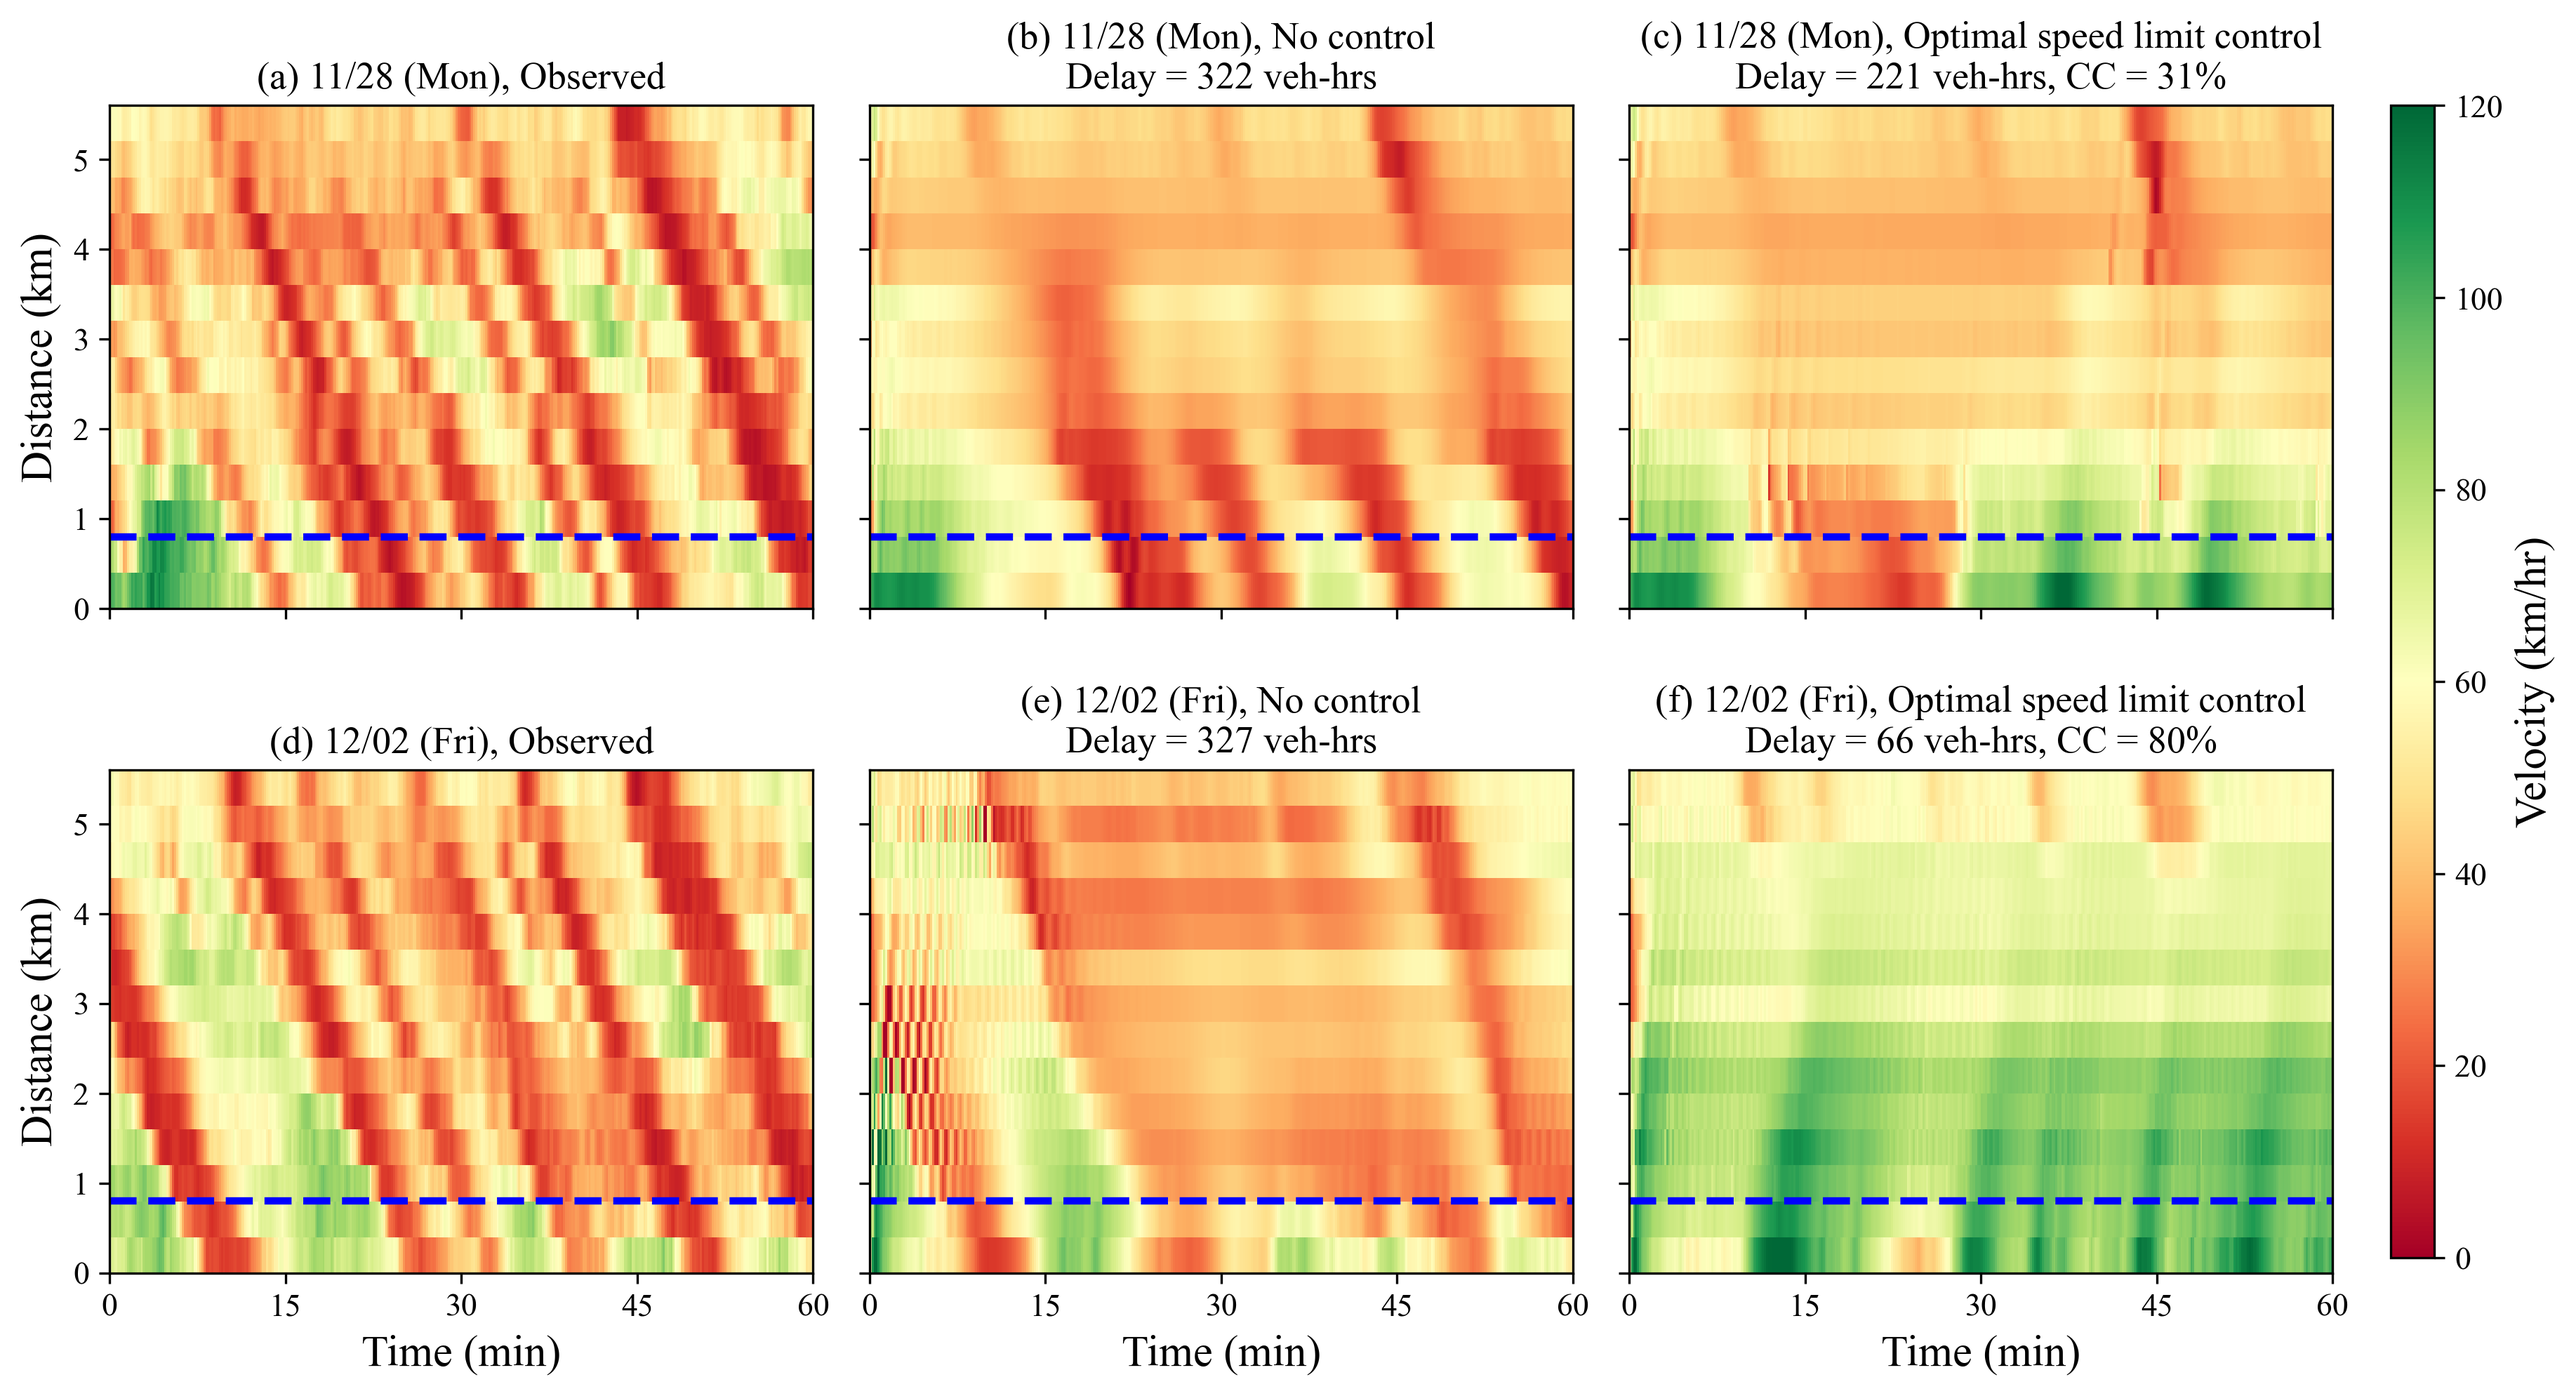
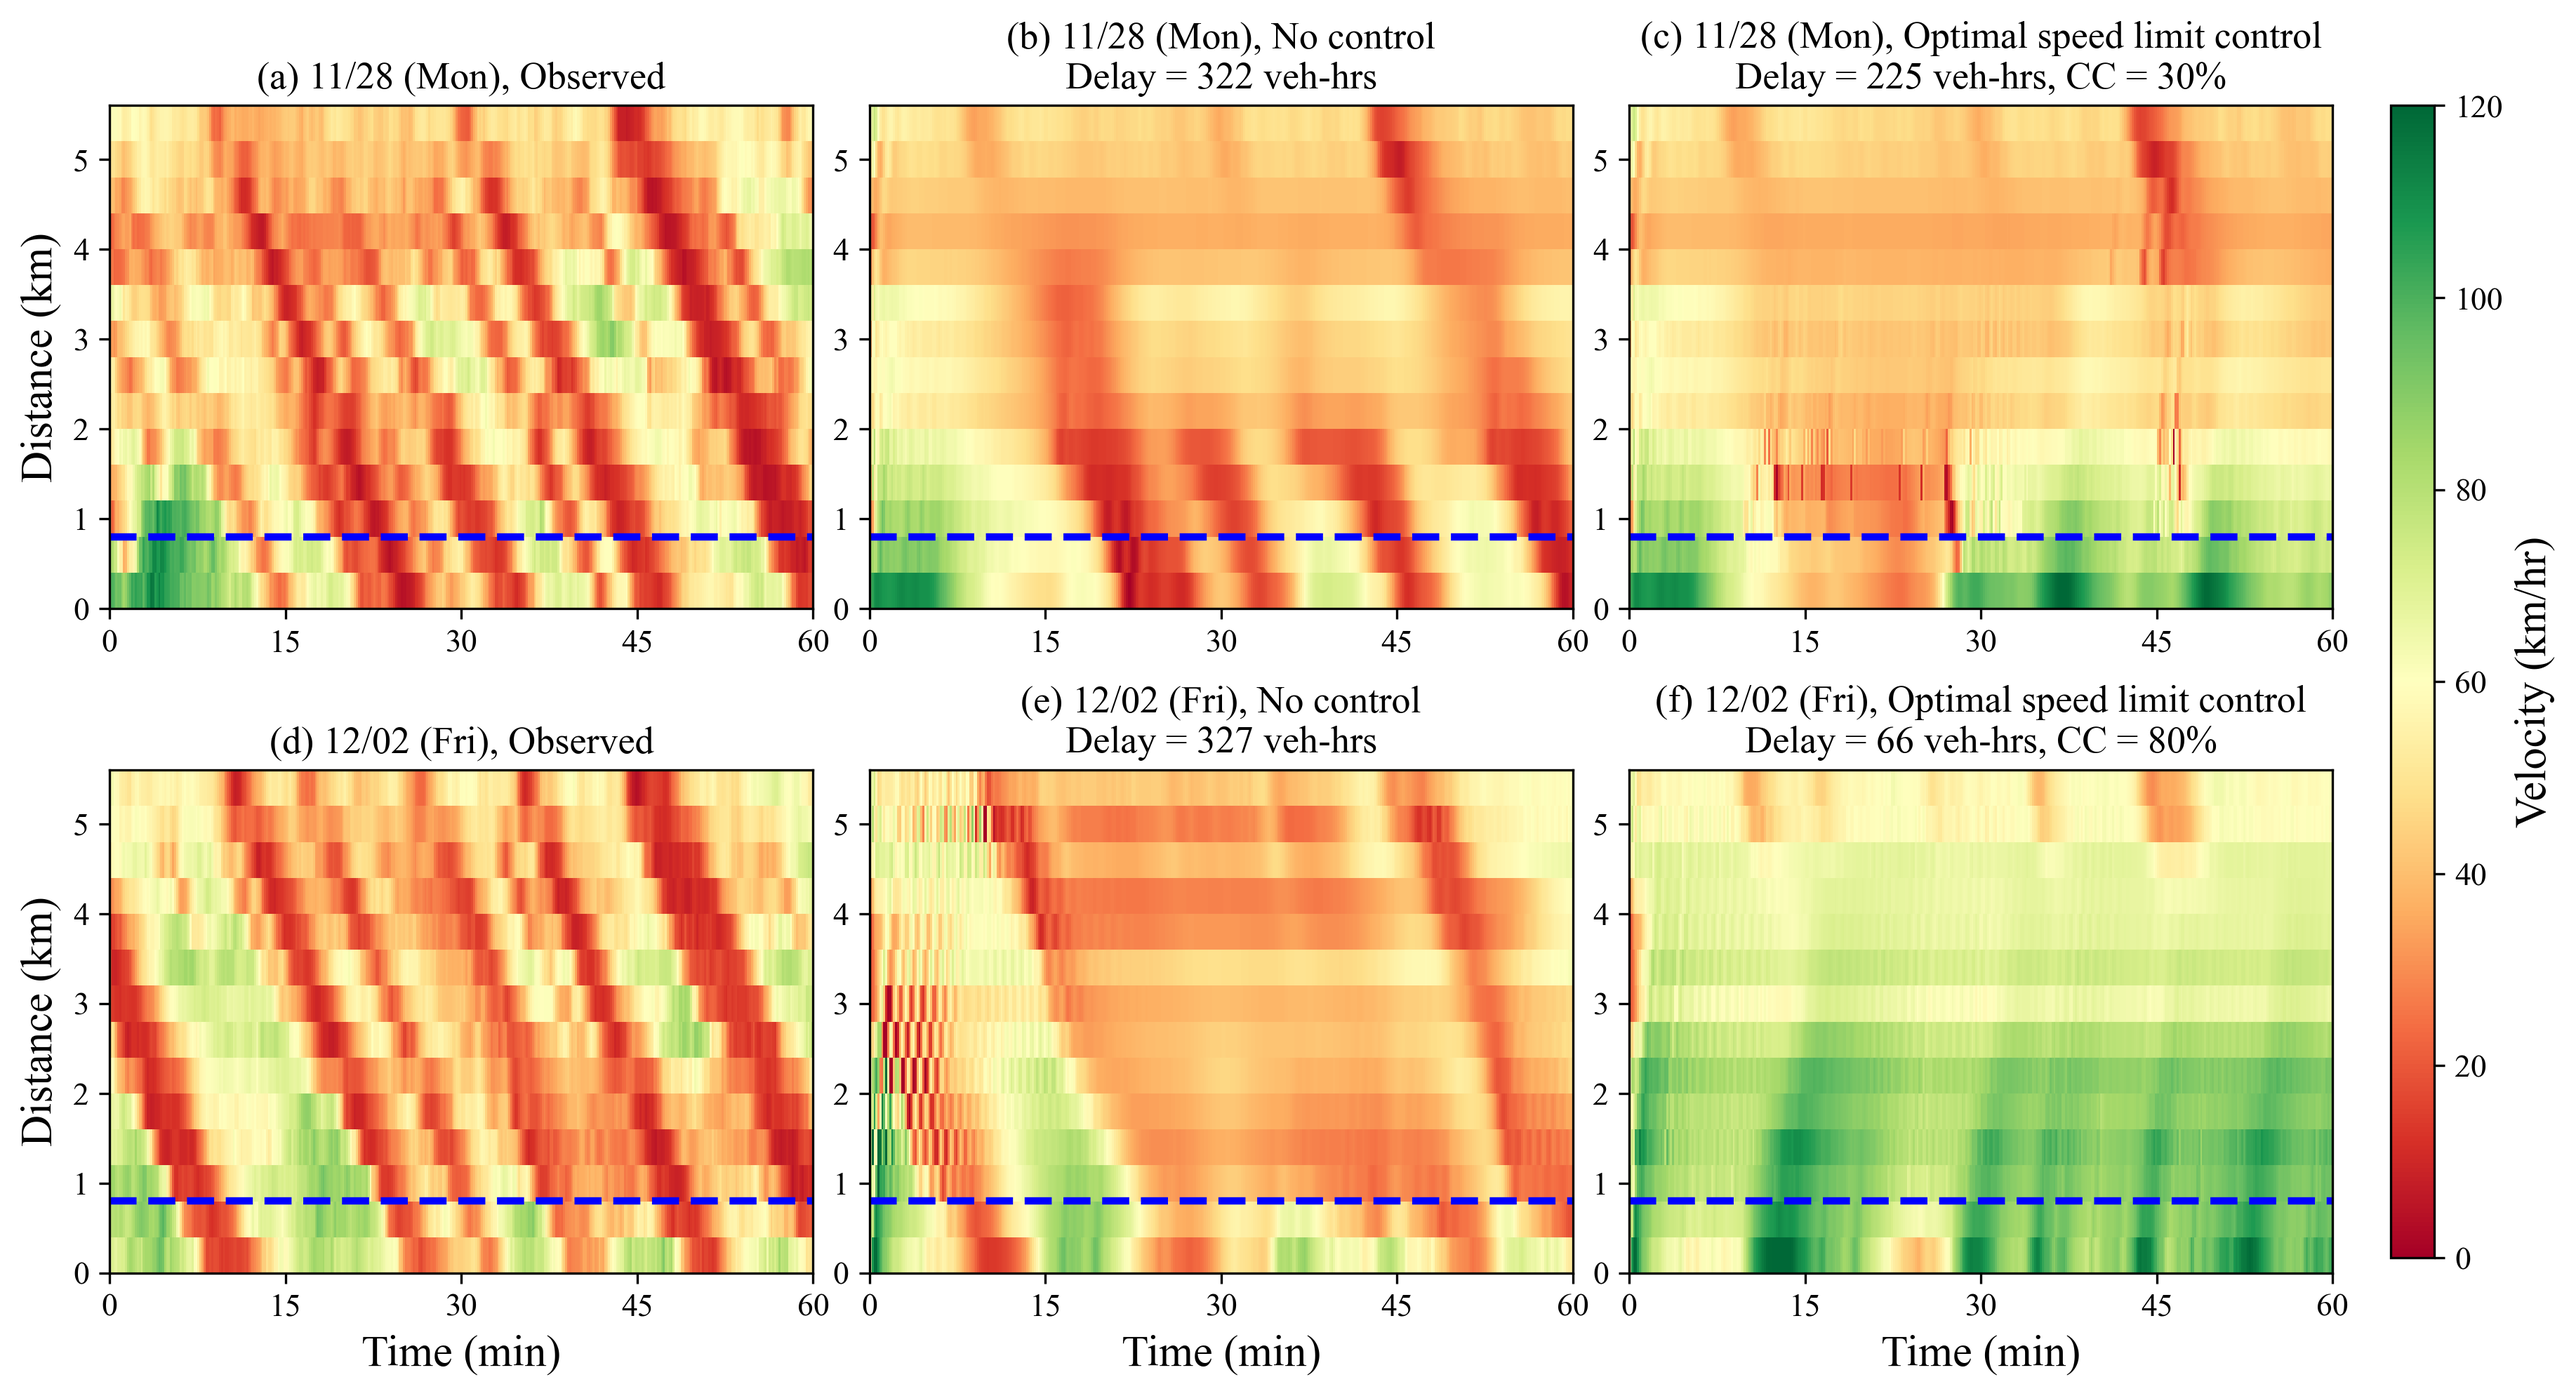
Fix I_24_tsd_plotting

Changed region(s): [[0.6523, 0.2494, 0.8698, 0.4364], [0.8076, 0.0935, 0.8698, 0.2182], [0.3106, 0.4364, 0.3417, 0.4676]]

diff --git a/figs/i24_cc_table.tex b/figs/i24_cc_table.tex
@@ -4,18 +4,18 @@
 \label{tab:cc_static}
 \begin{tabular}{lccccc}
 \toprule
-\textbf{Date} & \textbf{\shortstack{Simulation Error \\ (MAPE)}} & \textbf{\shortstack{Uncontrolled TTT \\ (veh-hrs)}} & \textbf{\shortstack{Controlled TTT \\ (veh-hrs)}} & \textbf{\shortstack{Controllable Congestion \\ (\%)}} & \textbf{\shortstack{Avg.\ TT Reduced / Veh \\ (min)}} \\
+\textbf{Date} & \textbf{\shortstack{TTS Error \\ (MAPE)}} & \textbf{\shortstack{Uncontrolled TTT \\ (veh-hrs)}} & \textbf{\shortstack{Controlled TTT \\ (veh-hrs)}} & \textbf{\shortstack{Controllable Congestion \\ (\%)}} & \textbf{\shortstack{Avg.\ TT Reduced / Veh \\ (min)}} \\
 \midrule
-11/21 (Mon) & 29.48\% & 526 & 375 & 60.42\% & 2.34 \\
-11/22 (Tue) & 31.73\% & 475 & 307 & 64.05\% & 2.65 \\
-11/23 (Wed) & 14.93\% & 343 & 264 & 58.82\% & 1.13 \\
-11/24 (Holiday) & 5.33\% & 80 & 80 & 0.00\% & 0.00 \\
-11/25 (Holiday) & 5.94\% & 130 & 130 & 0.00\% & 0.00 \\
-11/28 (Mon) & 34.51\% & 614 & 512 & 31.44\% & 1.48 \\
-11/29 (Tue) & 51.99\% & 566 & 393 & 47.64\% & 3.25 \\
-11/30 (Wed) & 58.06\% & 551 & 383 & 49.88\% & 3.21 \\
-12/01 (Thu) & 53.78\% & 611 & 562 & 13.05\% & 0.85 \\
-12/02 (Fri) & 40.08\% & 609 & 348 & 79.95\% & 3.73 \\
+11/21 (Mon) & 0.6\% & 526 & 375 & 60\% & 2.3 \\
+11/22 (Tue) & 9.2\% & 475 & 307 & 64\% & 2.6 \\
+11/23 (Wed) & 10.4\% & 343 & 264 & 59\% & 1.1 \\
+11/24 (Holiday) & 6.5\% & 80 & 80 & 0\% & 0.0 \\
+11/25 (Holiday) & 0.3\% & 130 & 130 & 0\% & 0.0 \\
+11/28 (Mon) & 2.4\% & 614 & 516 & 30\% & 1.4 \\
+11/29 (Tue) & 1.6\% & 566 & 393 & 48\% & 3.2 \\
+11/30 (Wed) & 2.3\% & 551 & 383 & 50\% & 3.2 \\
+12/01 (Thu) & 12.0\% & 611 & 562 & 13\% & 0.9 \\
+12/02 (Fri) & 1.3\% & 609 & 348 & 80\% & 3.7 \\
 \bottomrule
 \end{tabular}
 \end{table}

diff --git a/experiments/I_24_tsd_plotting.py b/experiments/I_24_tsd_plotting.py
@@ -18,12 +18,11 @@ import sys
 
 import numpy as np
 import matplotlib as mpl
-import matplotlib.pyplot as plt
-
-from viz import Plotter
 
 REPO = os.path.dirname(os.path.dirname(os.path.abspath(__file__)))
 sys.path.insert(0, os.path.join(REPO, "src"))
+
+from viz import Plotter
 
 from paths import fig, I24_RESULTS, DEFAULT_CALIBRATION           # noqa: E402
 from archive.cc_analysis import (                    # noqa: E402

diff --git a/src/viz.py b/src/viz.py
@@ -42,6 +42,6 @@ class Plotter:
 
   def savefig(self, *args, **kwargs):
     for ax in self: 
-      if ax.get_legend() is not None: ax.legend()
-    plt.tight_layout()
+      if ax.get_legend_handles_labels()[1]: ax.legend()
+    # plt.tight_layout()
     plt.savefig(*args, **kwargs)
